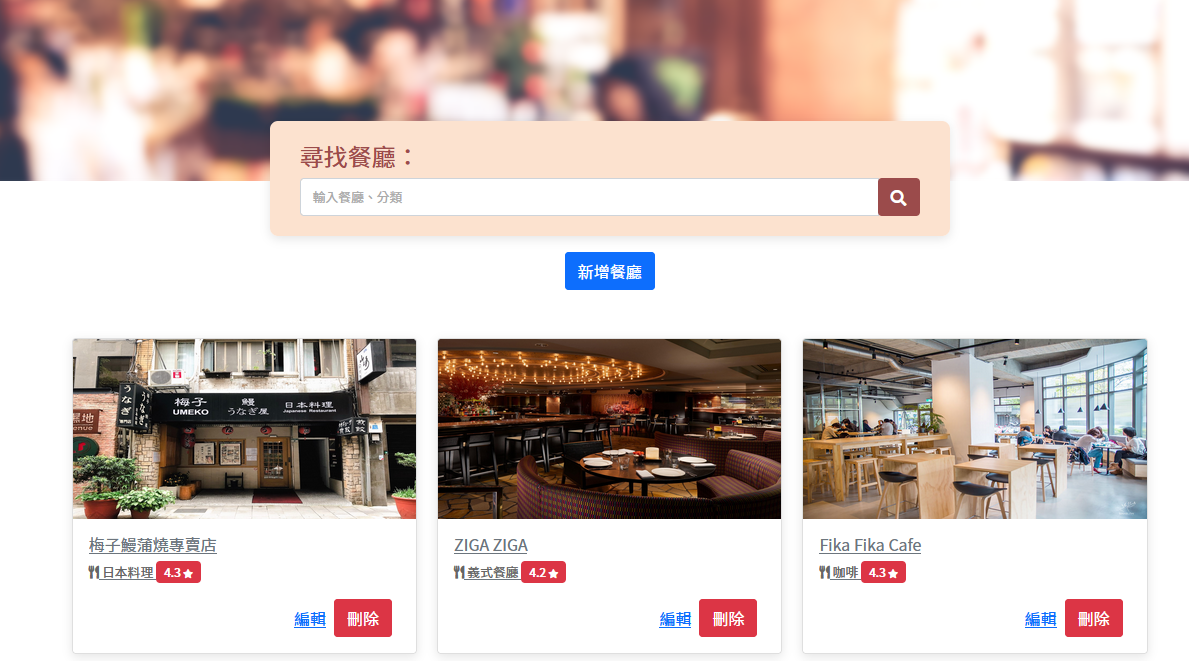
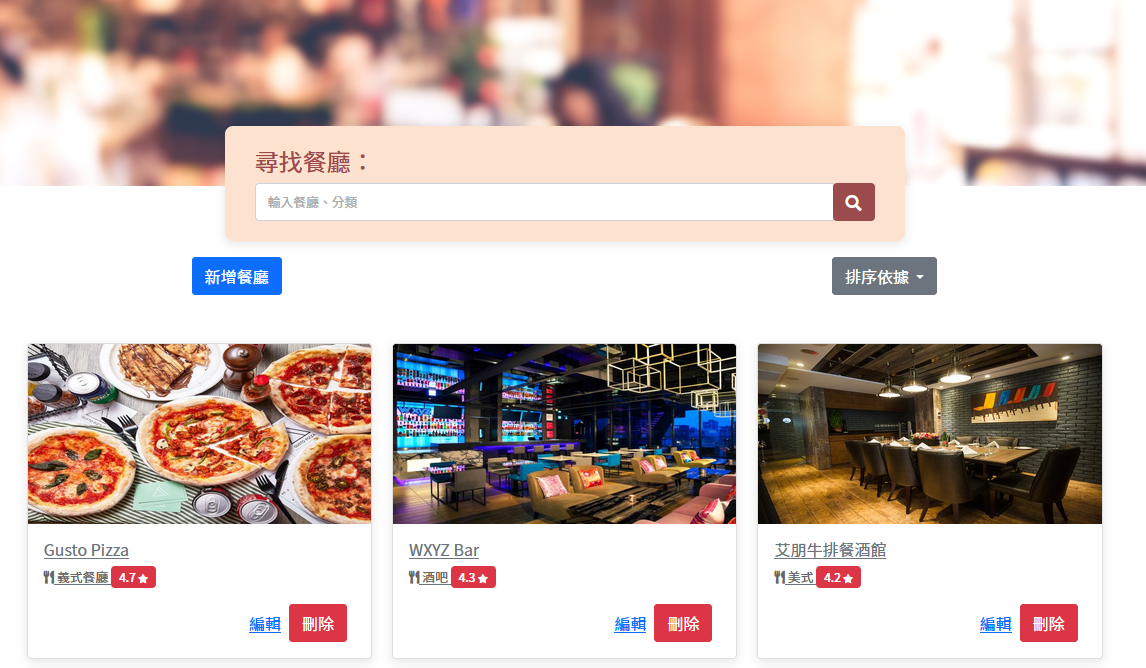
feat: add sort restaurant by id / rating + home.js, restaurants.js, index.hbs, README.md #20210505004

diff --git a/routes/modules/home.js b/routes/modules/home.js
@@ -4,11 +4,19 @@ const router = express.Router()
 const Restaurants = require('../../models/restaurant-list')
 
 router.get('/', (req, res) => {
+  const sorting = {
+    ia: { _id: 'asc' },
+    id: { _id: 'desc' },
+    ra: { rating: 'asc' },
+    rd: { rating: 'desc' }
+  }
+  const sortParams = req.query.sort
   // 在 index.handlebars 渲染餐廳資料
   Restaurants.find()
     .lean()
-    .sort({ _id: 'asc' })
+    .sort(sorting[sortParams])
     .then(restaurants => res.render('index', { restaurants }))
+    .catch(err => console.log(err))
 })
 
 router.get('/search', (req, res) => {
@@ -19,6 +27,7 @@ router.get('/search', (req, res) => {
     $or: [{ name: query }, { name_en: query }, { category: query }]
   }).lean()
     .then(results => res.render('index', { restaurants: results, keyword }))
+    .catch(err => console.log(err))
 })
 
 module.exports = router

diff --git a/routes/modules/restaurants.js b/routes/modules/restaurants.js
@@ -4,7 +4,7 @@ const router = express.Router()
 const Restaurants = require('../../models/restaurant-list')
 
 router.get('/new', (req, res) => {
-  res.render('new')
+  return res.render('new')
 })
 
 router.get('/:id', (req, res) => {

diff --git a/README.md b/README.md
@@ -14,6 +14,7 @@
 * 可以新增自己喜歡的餐廳至頁面 (v2.0新增)
 * 可以修改餐廳的詳細資訊 (v2.0新增)
 * 可以將餐廳從清單內刪除 (v2.0新增)
+* 可以將餐廳藉由建立時間先後/評價高低作排序 (v2.0新增)
 
 ## 環境建置與需求 (prerequisites)
  * [Node.js](https://nodejs.org/en/): v15.11.0
